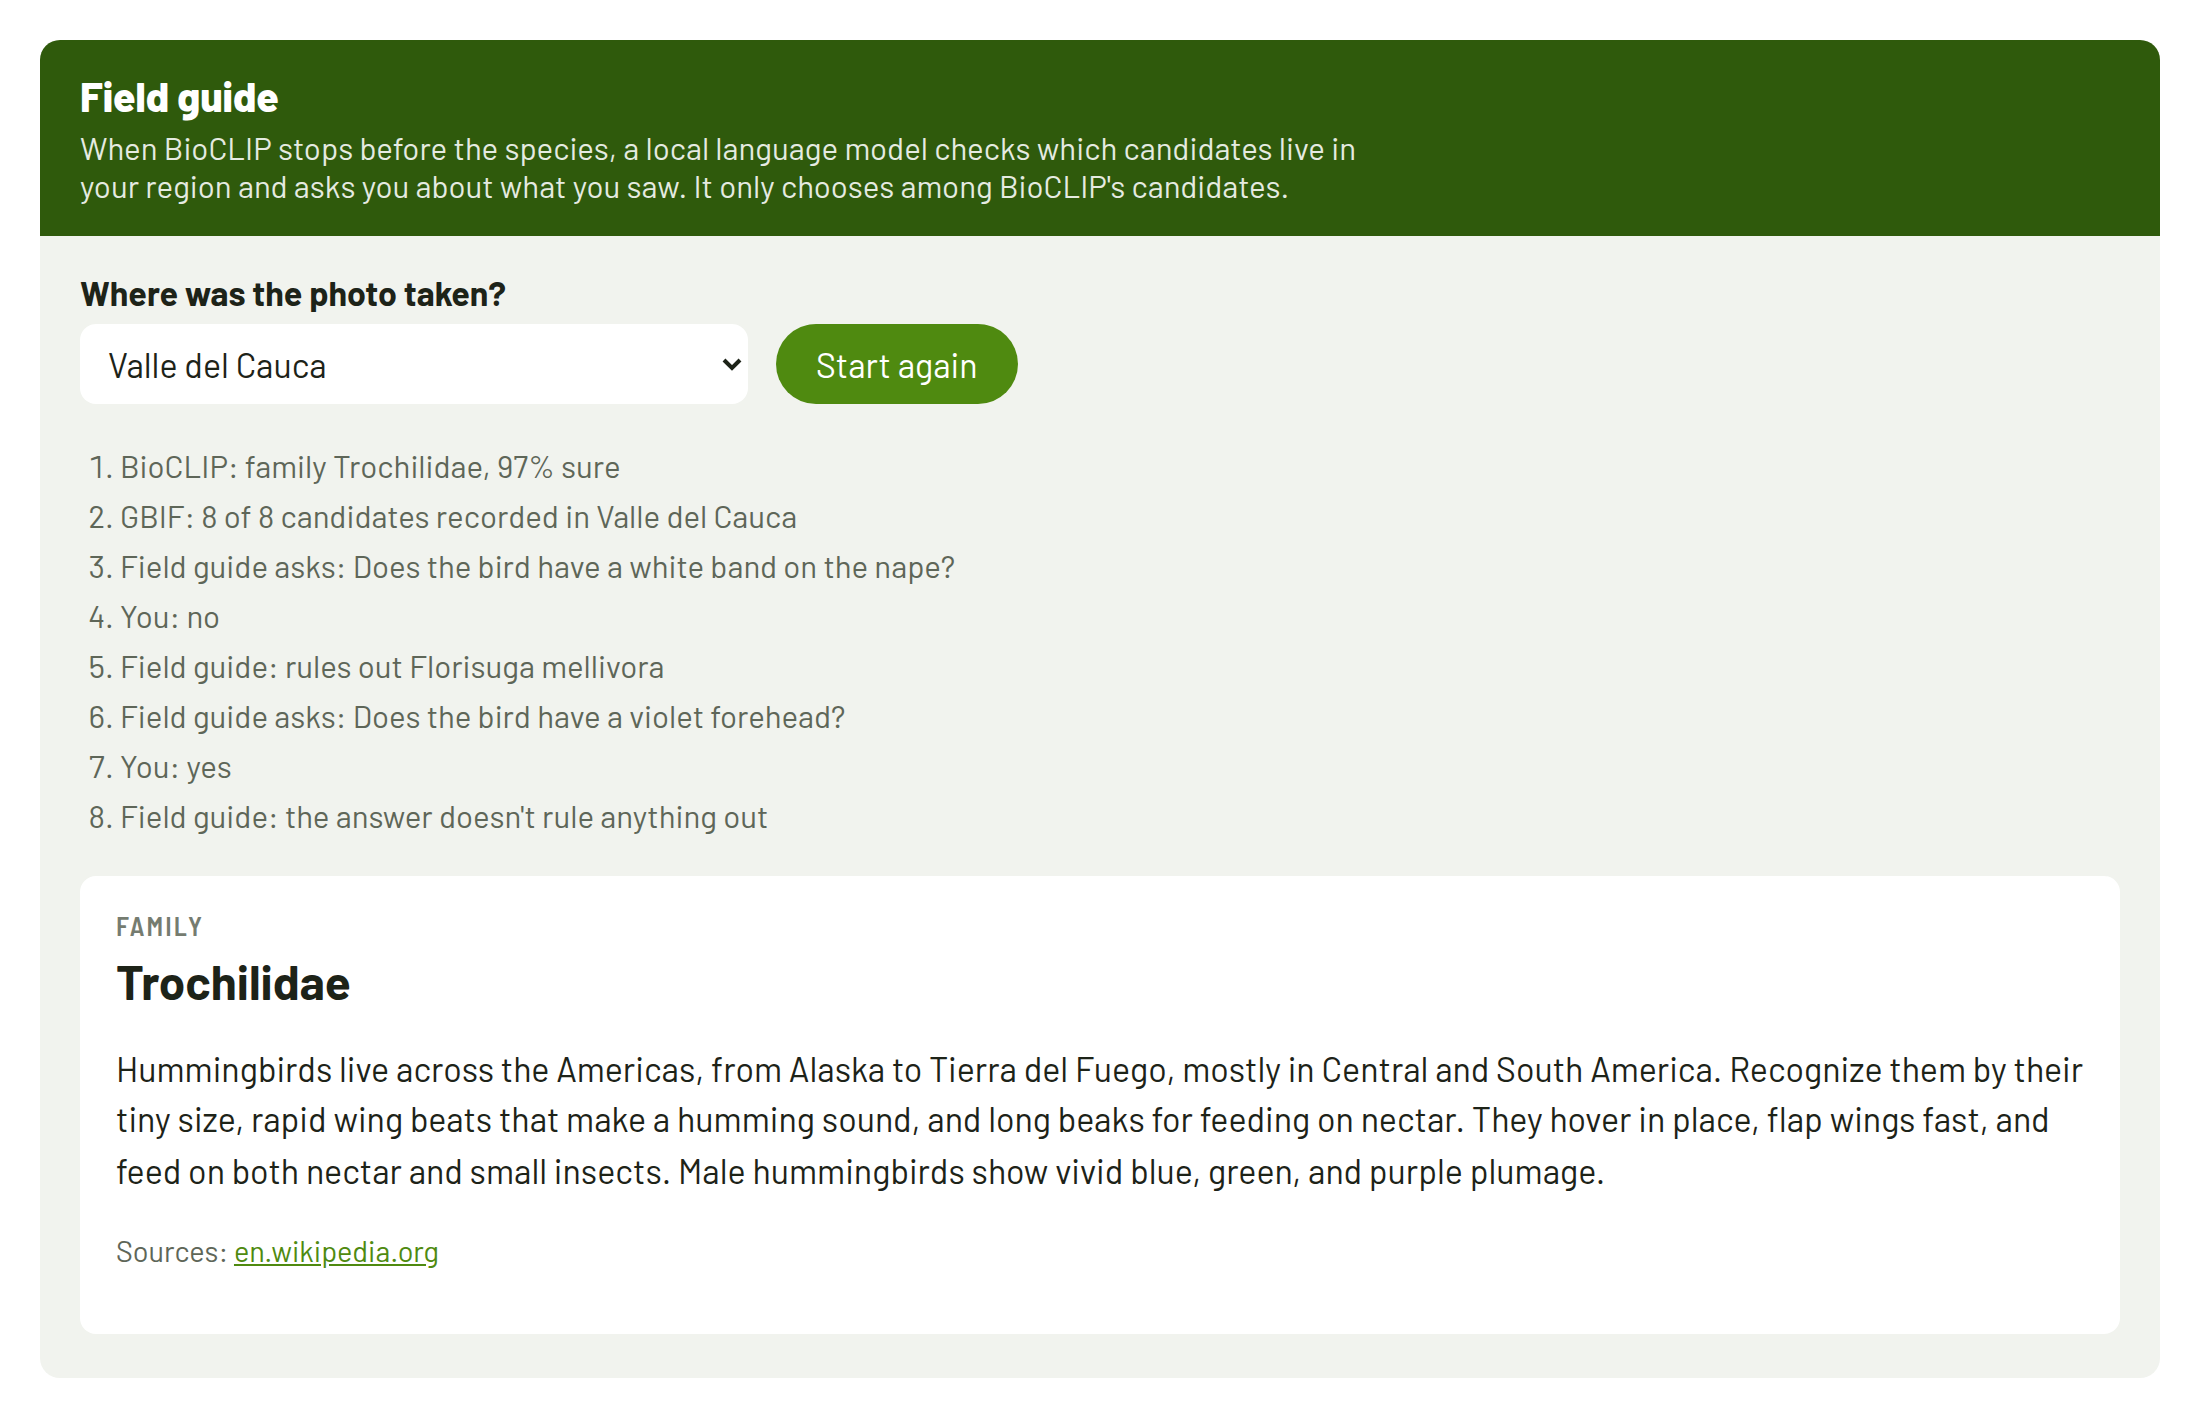
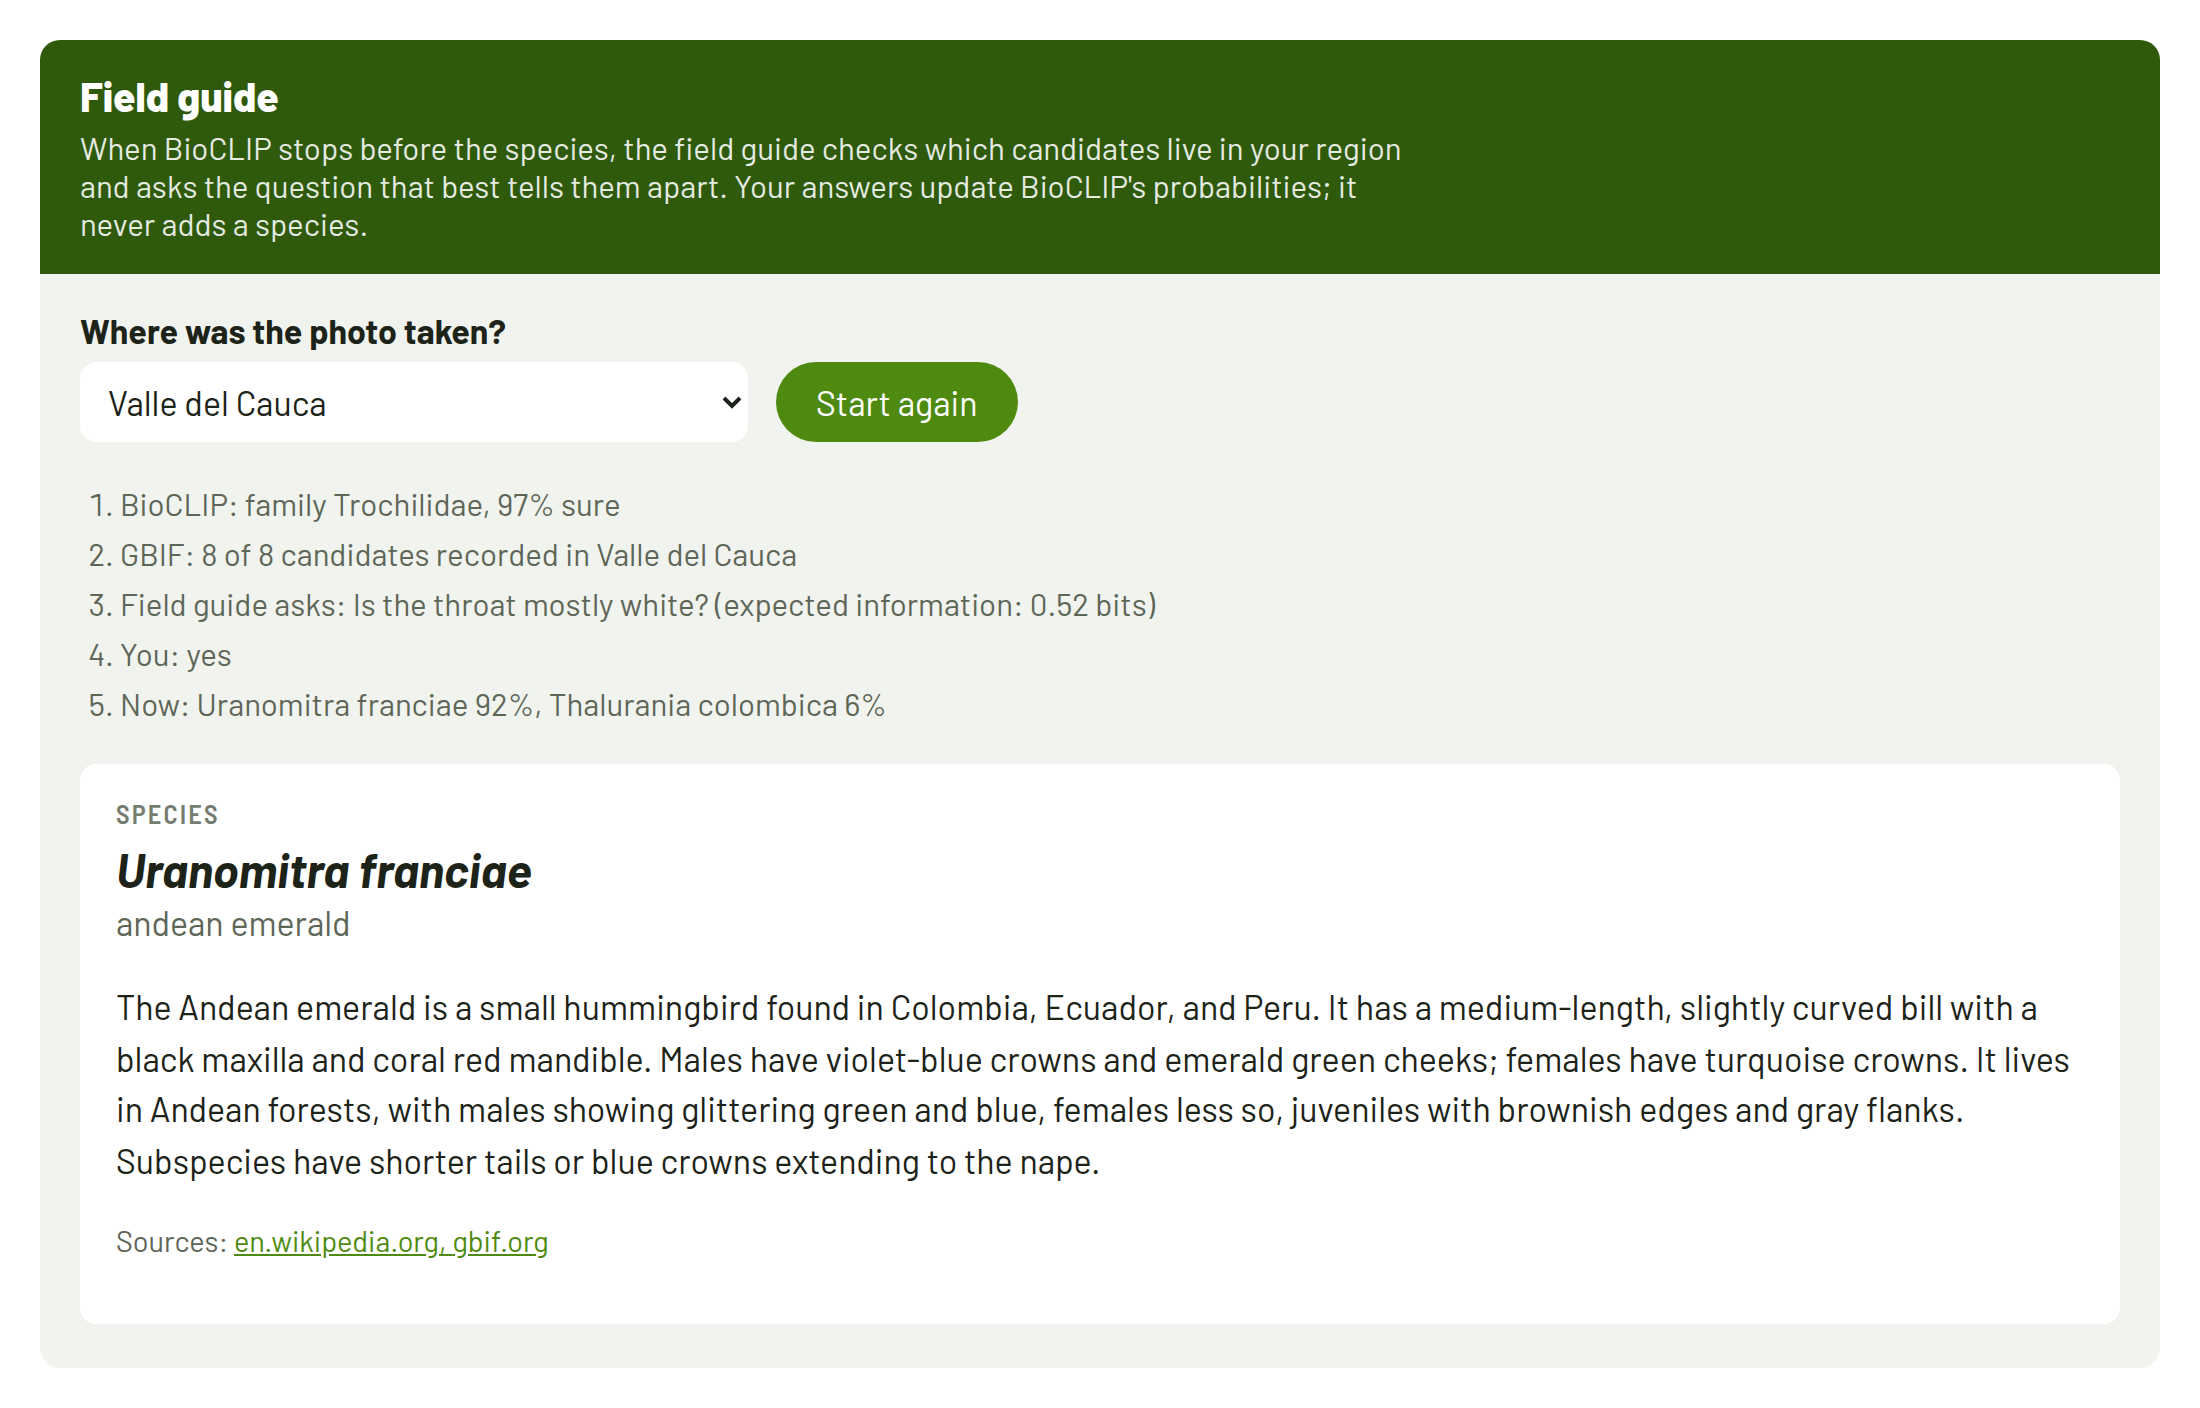
readme and web: the agent's questions come from information gain; the multimodal llm comparison

Changed region(s): [[0.0, 0.0938, 0.9891, 0.8438], [0.0618, 0.875, 0.2473, 0.9062]]

diff --git a/web/src/FieldGuide.tsx b/web/src/FieldGuide.tsx
@@ -69,8 +69,8 @@ export function FieldGuide({ image }: { image: Blob }) {
       <header className="guide-head">
         <h2>Field guide</h2>
         <p>
-          When BioCLIP stops before the species, a local language model checks which candidates live in your region and
-          asks you about what you saw. It only chooses among BioCLIP's candidates.
+          When BioCLIP stops before the species, the field guide checks which candidates live in your region and asks
+          the question that best tells them apart. Your answers update BioCLIP's probabilities; it never adds a species.
         </p>
       </header>
 

diff --git a/README.md b/README.md
@@ -97,24 +97,46 @@ is sure and turn dotted where it stops.
 
 ## The field guide agent
 
-When BioCLIP stops before the species, a small agent takes over. It's a LangGraph graph with a local LLM
-(Qwen3 4B through Ollama, fully on the GPU next to BioCLIP):
+When BioCLIP stops before the species (about a third of the photos), an agent takes over and asks you about what you see.
+It's a LangGraph graph; the questions come from probability, not from a language model:
 
-![The field guide asking two questions and staying at the family](docs/agent.png)
+![The field guide asking about the bird and updating the candidates](docs/agent.png)
 
 1. **Region.** If you say where the photo was taken, it asks GBIF which candidates have been recorded in that department
    and drops the others.
-2. **Question.** It reads the Wikipedia description of the top candidates and asks you one yes/no question about a single
-   visible feature. LangGraph pauses the graph (`interrupt`) until you answer.
-3. **Rule out, don't pick.** For each candidate separately, the LLM judges whether your answer agrees with its description.
-   The ones that contradict it are dropped, and **BioCLIP's own probabilities** decide among the rest. Up to two questions.
-4. **Card.** A short field-guide entry written only from the cited text, with the IUCN category. For threatened species
-   the page says the exact location is hidden.
+2. **The most informative question.** Every species has field marks (crown, throat, belly, back and tail colour; bill and
+   tail shape) that a vision-language model read off 5 validation photos each, kept only when 3 of 5 photos agree.
+   The agent asks the yes/no question with the largest expected information gain over the candidates, weighted by
+   BioCLIP's probabilities. A feature every likely candidate shares is worth 0 bits and is never asked.
+3. **Bayes' rule.** Your answer updates the candidates' probabilities; LangGraph pauses the graph (`interrupt`) until you
+   answer. When one species passes the threshold it stops, otherwise it asks again (up to 3 questions) or stays at the
+   genus or family.
+4. **Card.** A local LLM (Qwen3 4B through Ollama) writes a short field-guide entry, only from the cited Wikipedia text,
+   with the IUCN category. For threatened species the page says the exact location is hidden.
 
-The LLM never names a species on its own; it only works with BioCLIP's candidates. My first version let it pick the
-answer among three candidates, and it sometimes picked the one the answer had just ruled out; judging one candidate
-at a time fixed that. It still sometimes asks a question that doesn't separate the candidates (in the screenshot,
-both remaining hummingbirds have a violet crown), and then it does the right thing: it stays at the family.
+**Does it help?** With a simulated person who answers from the true species' field marks, it turns 61% of the unsure
+photos into the right species with about two questions. Over all 1,000 test photos, right species go from 62.8% to
+83.6%, and wrong answers from 4.1% to 7.9%: a real trade, and the best case, since the simulated person agrees with the
+field guide. Details and the noisy-person numbers in [results/agent](results/agent/README.md).
+
+**How I got here.** My first agent had the LLM write the questions and judge the answers. It asked about features every
+candidate shared and once chose the species the answer had just ruled out. Then I had it extract field marks from
+Wikipedia text, and it filled the gaps by guessing (a white belly for the yellow-bellied great kiskadee). Looking at
+photos, voting, and choosing questions by information gain fixed both.
+
+## Why not just ask a multimodal LLM?
+
+I asked one: Qwen3-VL 8B, locally, on the same 200 test photos (one per species).
+
+| | species accuracy (pick 1 of 200) | knows when it's guessing? |
+|---|---:|---|
+| Qwen3-VL 8B, ~8,000 M parameters | 30.5% | no: says "95% sure" on 184 of 200 photos, wrong on 67% of them |
+| BioCLIP, ~150 M parameters | **80.5%** | yes: 1.5% wrong answers at the calibrated threshold |
+
+Without the list of candidates it names the right species 18% of the time, and in 71% of the photos it names a bird
+that isn't one of the 200 candidates. A specialist 50 times smaller is more than twice as accurate and its confidence
+means something; the general model is better used for what it's good at, like describing colours in a photo.
+[results/vlm](results/vlm/README.md)
 
 ## Serving and MLOps, all on this machine
 
@@ -141,7 +163,7 @@ The first run downloads the BioCLIP and CLIP weights (about 600 MB each). It wor
 Each service runs in its own terminal with [`run.sh`](run.sh):
 
 ```bash
-./run.sh ollama     # local LLM for the agent (after: ollama pull qwen3:4b-instruct)
+./run.sh ollama     # local LLM for the agent's cards (after: ollama pull qwen3:4b-instruct)
 ./run.sh api        # http://localhost:8000
 ./run.sh web        # http://localhost:5173
 ./run.sh mlflow     # http://localhost:5000
@@ -156,6 +178,8 @@ uv run scripts/build_testset.py data/candidates/aves_colombia.csv -k 5
 uv run scripts/build_testset.py data/candidates/aves_colombia.csv -k 5 -o data/valset --exclude data/testset/manifest.csv
 ./run.sh evaluate && ./run.sh calibrate && ./run.sh evaluate
 uv run --group analysis scripts/embedding_map.py
+uv run scripts/field_marks.py && uv run scripts/evaluate_agent.py      # needs ./run.sh ollama
+uv run scripts/evaluate_vlm.py --one-per-species                         # after: ollama pull qwen3-vl:8b-instruct
 ./run.sh onnx
 ./run.sh gate
 ./run.sh lambda
@@ -170,15 +194,17 @@ src/bioclip_co/
 ├── domain/          plain Python, no ML libraries
 │   ├── taxonomy.py      Taxon, adding probabilities up the tree
 │   ├── abstention.py    walking down the tree with a threshold
-│   └── metrics.py       accuracy per rank, mistake depth, risk-coverage, calibration error
+│   ├── metrics.py       accuracy per rank, mistake depth, risk-coverage, calibration error
+│   └── field_marks.py   the most informative question, Bayes' rule, majority vote over photos
 ├── ports/           what the app needs from the outside: an image-text encoder, an encyclopedia,
 │                    occurrence records, a field-guide writer (the LLM)
-├── adapters/        OpenCLIP, ONNX Runtime, GBIF, Wikipedia, Ollama, the candidates CSV
+├── adapters/        OpenCLIP, ONNX Runtime, GBIF, Wikipedia, Ollama (text and vision), the candidates CSV
 ├── application/     zero-shot probabilities, calibration, the LangGraph field guide
 └── entrypoints/     FastAPI app, AWS Lambda handler, MLflow model
-scripts/             build the photo sets, evaluate, calibrate, export to ONNX, benchmark, quality gate
+scripts/             build the photo sets, evaluate, calibrate, field marks, agent and VLM evaluations,
+                     export to ONNX, benchmark, quality gate
 web/                 the React demo
-tests/               52 tests; none of them loads a model or calls an API
+tests/               61 tests; none of them loads a model or calls an API
 ```
 
 Swapping models is writing an adapter: the ONNX version sits behind the same port as the PyTorch one, and the tests
@@ -190,8 +216,9 @@ plug in a fake encoder, a fake LLM and fake GBIF/Wikipedia.
   species, and my filter threw them all away. Photos are now looked up by taxon id.
 - The silhouette score said nothing about the embedding space (near zero for both models); neighbor agreement did.
 - Quantizing the whole model to INT8 halved its accuracy (above).
-- The agent's small LLM sometimes asks questions that don't separate the candidates. And the GBIF filter didn't help in the
-  department I tried most (Valle del Cauca): it's so well surveyed that every candidate had records there.
+- Letting an LLM write the agent's questions, and extracting field marks from Wikipedia text (see the agent section).
+- The GBIF filter didn't help in the department I tried most (Valle del Cauca): it's so well surveyed that every
+  candidate had records there.
 - Five photos per species is enough for the totals, not for per-species conclusions.
 
 ## Roadmap
@@ -204,7 +231,8 @@ plug in a fake encoder, a fake LLM and fake GBIF/Wikipedia.
 - [x] Threshold picked on a validation set, BioCLIP calibrated
 - [x] Embedding space: UMAP and nearest-neighbor agreement
 - [x] ONNX / INT8: size, latency and accuracy
-- [x] Field guide agent: LangGraph + a local LLM, region filter, follow-up questions
+- [x] Field guide agent: LangGraph, region filter, questions chosen by information gain, Bayes' rule
+- [x] Agent evaluated with simulated people; a local multimodal LLM compared against BioCLIP
 - [x] Jenkins pipeline with a model quality gate, MLflow tracking and registry
 - [x] AWS SAM template, tested locally
 - [ ] Try my own photos
